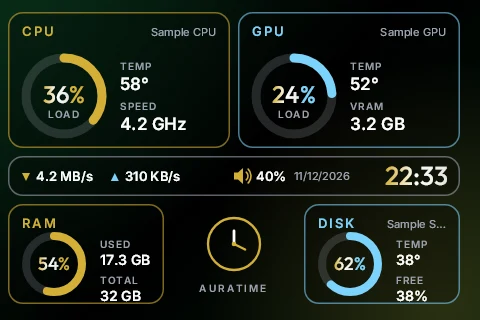
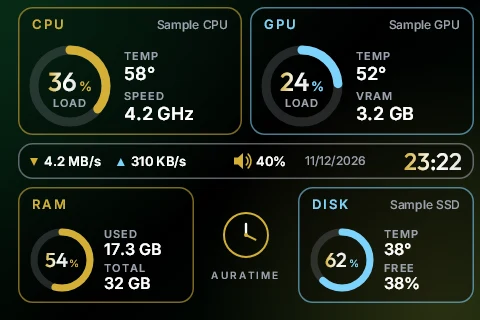
fix(app): dashboard spacing on the real screen
Seen on the display: the bottom cards were too short and narrow, so 56 GB and the free space touched their border, and the disk percentage touched its ring. The rows are redistributed (top cards 128 px, strip 36 px, bottom cards 116 px and wider, the logo smaller between them), every value is placed from its ring's centre and shortened to the room it has, the percentage inside a ring is sized to fit with a smaller % sign, and the small labels grow from 10 to 11 px. The website's picture of the design is redrawn.

Changed region(s): [[0.0, 0.0, 1.0, 0.9688]]

diff --git a/app/AuraTime.Desktop/Render/SystemDesigns.cs b/app/AuraTime.Desktop/Render/SystemDesigns.cs
@@ -277,9 +277,11 @@ public sealed partial class ScreenRenderer
     /* ------------------------------ 6. dashboard ------------------------------ */
 
     /// <summary>
-    /// The whole screen in cards. Top: CPU and GPU with a load ring. Middle: network, volume, time and date.
-    /// Bottom: memory, the logo, the system drive. The cards stay 14 px inside the screen so the anti burn-in shift
-    /// never pushes one off it.
+    /// The whole screen in cards. Top: CPU and GPU with a load ring. Middle: network, volume, date and time.
+    /// Bottom: memory, the logo, the system drive. Everything stays 12 px inside the screen so the anti burn-in
+    /// shift (up to 6 px) never pushes a card off it.
+    /// Rows: cards 12..140, strip 148..184, cards 192..308. The bottom cards are wider than the logo between them:
+    /// "17.8 GB" and "78%" need the room on a 3.5" screen.
     /// </summary>
     private void DrawDashboard(SystemSnapshot s, RenderOptions o, DateTime now)
     {
@@ -287,74 +289,85 @@ public sealed partial class ScreenRenderer
         Theme theme = o.Theme;
 
         string vram = s.VramUsedGb is { } gb ? Inv($"{gb:0.0} GB") : "–";
-        Card(o, new SKRect(14, 14, 236, 150), "CPU", s.CpuName, s.CpuLoad, st.Accent, 38, 24,
+        Card(o, new SKRect(12, 12, 236, 140), "CPU", s.CpuName, s.CpuLoad, st.Accent, compact: false,
             ("TEMP", TempText(s.CpuTemp), s.CpuTemp >= st.AlertTemp), ("SPEED", GhzText(s.CpuClockMhz), false));
-        Card(o, new SKRect(244, 14, 466, 150), "GPU", s.GpuName, s.GpuLoad, st.Secondary, 38, 24,
+        Card(o, new SKRect(244, 12, 468, 140), "GPU", s.GpuName, s.GpuLoad, st.Secondary, compact: false,
             ("TEMP", TempText(s.GpuTemp), s.GpuTemp >= st.AlertTemp), ("VRAM", vram, false));
 
-        // Network, volume, time and date on one strip
-        var strip = new SKRect(14, 158, 466, 198);
+        // Network, volume, date and time on one strip
+        var strip = new SKRect(12, 148, 468, 184);
         Panel(strip, theme.Muted, theme);
         using (SKFont rate = Font(Semibold, 13))
-        using (SKFont small = Font(Medium, 11))
+        using (SKFont small = Font(Medium, 12))
         {
             SKColor strong = StrongText(theme);
-            float y = strip.Top + 25;
+            float y = strip.Top + 23;
             string down = RateText(s.NetDownBps);
-            Arrow(32, y - 4, 8, false, st.Accent);
-            Text(down, 42, y, rate, strong);
-            float upArrow = 42 + rate.MeasureText(down) + 22;
+            Arrow(28, y - 4, 8, false, st.Accent);
+            Text(down, 38, y, rate, strong);
+            float upArrow = 38 + rate.MeasureText(down) + 20;
             Arrow(upArrow, y - 4, 8, true, st.Secondary);
             Text(RateText(s.NetUpBps), upArrow + 10, y, rate, strong);
 
-            Speaker(240, strip.MidY, st.Accent, s.Muted);
-            Text(s.VolumePct is null || s.Muted ? "–" : PercentText(s.VolumePct), 262, y, rate, strong);
+            Speaker(228, strip.MidY, st.Accent, s.Muted);
+            Text(s.VolumePct is null || s.Muted ? "–" : PercentText(s.VolumePct), 250, y, rate, strong);
 
             string suffix = o.Use24h ? "" : now.ToString("tt", CultureInfo.InvariantCulture);
-            DrawTimeWithSuffix(theme, o.Font, now.ToString(o.Use24h ? "HH:mm" : "hh:mm", CultureInfo.InvariantCulture), suffix, 454, strip.Top + 29, 96, 26, 11, alignRight: true);
-            Text(now.ToString("d", o.Culture), 356, y - 1, small, theme.Muted, SKTextAlign.Right);
+            DrawTimeWithSuffix(theme, o.Font, now.ToString(o.Use24h ? "HH:mm" : "hh:mm", CultureInfo.InvariantCulture), suffix, 456, strip.Top + 27, 92, 24, 11, alignRight: true);
+            Text(now.ToString("d", o.Culture), 360, y - 1, small, theme.Muted, SKTextAlign.Right);
         }
 
         // Memory, logo, system drive
         float ram = Fraction(s.RamUsedGb, s.RamTotalGb);
-        Card(o, new SKRect(14, 206, 170, 306), "RAM", "", ram * 100, st.Accent, 28, 18,
-            ("USED", s.RamUsedGb is { } used ? Inv($"{used:0.0} GB") : "–", false), ("TOTAL", s.RamTotalGb is { } total ? Inv($"{MathF.Round(total)} GB") : "–", false), compact: true);
-        Logo(240, 246, 26, o);
-        Card(o, new SKRect(310, 206, 466, 306), "DISK", s.DiskName, s.DiskUsedPct, st.Secondary, 28, 18,
-            ("TEMP", TempText(s.DiskTemp), s.DiskTemp >= st.AlertTemp), ("FREE", s.DiskUsedPct is { } du ? PercentText(100 - du) : "–", false), compact: true);
+        Card(o, new SKRect(12, 192, 188, 308), "RAM", "", ram * 100, st.Accent, compact: true,
+            ("USED", s.RamUsedGb is { } used ? Inv($"{used:0.0} GB") : "–", false),
+            ("TOTAL", s.RamTotalGb is { } total ? Inv($"{MathF.Round(total)} GB") : "–", false));
+        Logo(240, 240, 22, o);
+        Card(o, new SKRect(292, 192, 468, 308), "DISK", s.DiskName, s.DiskUsedPct, st.Secondary, compact: true,
+            ("TEMP", TempText(s.DiskTemp), s.DiskTemp >= st.AlertTemp),
+            ("FREE", s.DiskUsedPct is { } du ? PercentText(100 - du) : "–", false));
     }
 
     /// <summary>
-    /// One component's card: its name, a load ring with the percentage in the middle, and two labelled values beside it.
-    /// <paramref name="compact"/> is the shorter card of the bottom row.
+    /// One component's card: its name, a load ring with the percentage in the middle, and two labelled values beside
+    /// it. Everything is placed from the ring's centre, which sits in the middle of the space under the title, so the
+    /// values keep their distance from the card's edges whatever its height. <paramref name="compact"/> is the
+    /// smaller ring and text of the bottom row.
     /// </summary>
-    private void Card(RenderOptions o, SKRect r, string title, string name, float? load, SKColor color, float ringRadius, float ringTextSize,
-        (string Label, string Value, bool Hot) first, (string Label, string Value, bool Hot) second, bool compact = false)
+    private void Card(RenderOptions o, SKRect r, string title, string name, float? load, SKColor color, bool compact,
+        (string Label, string Value, bool Hot) first, (string Label, string Value, bool Hot) second)
     {
         Theme theme = o.Theme;
         Panel(r, color, theme);
+        float radius = compact ? 28 : 36;
+        float stroke = compact ? 7 : 9;
         using SKFont titleFont = Font(Semibold, 13);
-        using SKFont small = Font(Medium, 11);
-        using SKFont tiny = Font(Semibold, 10);
-        using SKFont value = Font(Semibold, compact ? 14 : 17);
+        using SKFont small = Font(Medium, 12);
+        using SKFont tiny = Font(Semibold, 11);
+        using SKFont value = Font(Semibold, compact ? 16 : 18);
 
-        Text(title, r.Left + 14, r.Top + 24, titleFont, color, SKTextAlign.Left, 2);
-        if (name.Length > 0) Text(Ellipsize(name, small, compact ? 60 : 104), r.Right - 14, r.Top + 24, small, theme.Muted, SKTextAlign.Right);
+        Text(title, r.Left + 14, r.Top + 22, titleFont, color, SKTextAlign.Left, 2);
+        float titleWidth = titleFont.MeasureText(title) + 2 * title.Length;
+        if (name.Length > 0) Text(Ellipsize(name, small, r.Width - 28 - titleWidth - 12), r.Right - 14, r.Top + 22, small, theme.Muted, SKTextAlign.Right);
 
-        float cx = r.Left + 14 + ringRadius + 4;
-        float cy = r.Top + (compact ? 60 : 84);
-        Ring(cx, cy, ringRadius, compact ? 8 : 9, (load ?? 0) / 100, color, theme);
-        BigValue(o, new Big(load is null ? "–" : RoundText(load.Value), load is null ? "" : "%", false), cx, cy + (compact ? 6 : 7), ringRadius * 1.4f, ringTextSize, color);
-        if (!compact) Text("LOAD", cx, cy + 22, tiny, theme.Muted, SKTextAlign.Center, 1);
+        float cx = r.Left + 14 + radius + 2;
+        float cy = r.Top + 30 + (r.Height - 30) / 2;
+        Ring(cx, cy, radius, stroke, (load ?? 0) / 100, color, theme);
+        // The number fits inside the ring, the "%" smaller beside it, so neither touches the ring.
+        var big = new Big(load is null ? "–" : RoundText(load.Value), load is null ? "" : "%", false);
+        BigValue(o, big, cx, cy + (compact ? 7 : 5), 2 * (radius - stroke) - 6, compact ? 20 : 26, color, SKTextAlign.Center, 0.5f);
+        if (!compact) Text("LOAD", cx, cy + 21, tiny, theme.Muted, SKTextAlign.Center, 1);
 
-        float x = cx + ringRadius + 18;
-        float step = compact ? 36 : 40;
-        float top = r.Top + (compact ? 44 : 58);
+        float x = cx + radius + (compact ? 14 : 18);
+        float width = r.Right - 12 - x;
+        float labelY = cy - (compact ? 22 : 26);
+        float valueStep = compact ? 17 : 20;
+        float rowStep = compact ? 34 : 40;
         foreach ((string Label, string Value, bool Hot) item in new[] { first, second })
         {
-            Text(item.Label, x, top, tiny, theme.Muted, SKTextAlign.Left, 1);
-            Text(item.Value, x, top + (compact ? 17 : 20), value, item.Hot ? o.System.Alert : StrongText(theme));
-            top += step;
+            Text(item.Label, x, labelY, tiny, theme.Muted, SKTextAlign.Left, 1);
+            Text(Ellipsize(item.Value, value, width), x, labelY + valueStep, value, item.Hot ? o.System.Alert : StrongText(theme));
+            labelY += rowStep;
         }
     }
 
@@ -463,7 +476,8 @@ public sealed partial class ScreenRenderer
         SKTextAlign align = SKTextAlign.Center, float unitScale = 1)
     {
         bool small = unitScale < 1;
-        float gap = small ? 4 : 0;
+        // A word ("MB/s") keeps a space from the number; a small "%" sits right against it.
+        float gap = small ? (big.Unit == "%" ? 1.5f : 4) : 0;
         using SKFont font = Font(o.Font.File, size);
         using SKFont smallFont = Font(Semibold, size * unitScale);
         SKFont unitFont = small ? smallFont : font;
